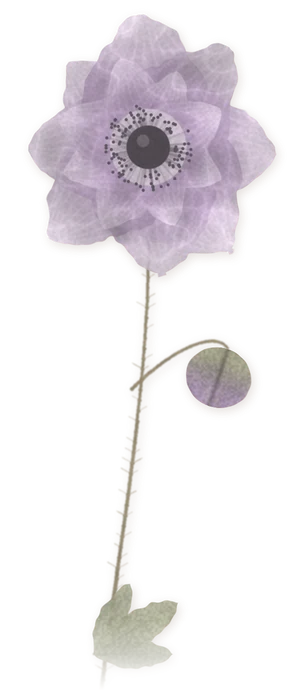
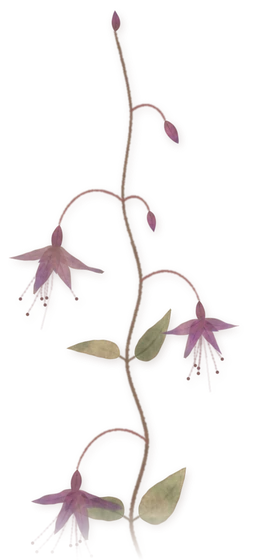
Rankings: pressed fuchsia sprig, asymmetric and dried, replacing the anemone
Claude-Session: https://claude.ai/code/session_019cHY5kFv81n3dVZ9DcXyGk

diff --git a/assets/inner.css b/assets/inner.css
@@ -161,8 +161,8 @@ header{position:absolute;color:inherit;mix-blend-mode:normal;padding:1.4rem 16px
 /* a sprig of lily of the valley beside the photo, drawn in as the page opens */
 .ranks .plates{position:sticky}
 
-.bloom{position:absolute;left:55%;top:-3.4rem;width:clamp(7rem,9.5vw,9.5rem);height:auto;transform:rotate(5deg);pointer-events:none;filter:drop-shadow(0 1px 1.5px rgba(70,50,30,.15))}
+.bloom{position:absolute;left:60%;top:-3.4rem;width:clamp(9rem,13vw,13rem);height:auto;transform:rotate(5deg);pointer-events:none;filter:drop-shadow(0 1px 1.5px rgba(70,50,30,.15))}
 .js .bloom{opacity:0;transform:rotate(5deg) translateY(.5rem)}
 .js .bloom.in{opacity:.92;transform:rotate(5deg);transition:opacity 1.2s var(--e),transform 1.4s var(--e)}
 @media (prefers-reduced-motion:reduce){.js .bloom{opacity:.92;transform:rotate(5deg)}}
-@media (max-width:760px){.ranks .plates{max-width:11rem;grid-template-columns:1fr}.bloom{left:78%;top:-2.6rem;width:6.4rem}}
+@media (max-width:760px){.ranks .plates{max-width:11rem;grid-template-columns:1fr}.bloom{left:72%;top:-3rem;width:8.4rem}}

diff --git a/ranking.html b/ranking.html
@@ -23,7 +23,7 @@
   <p class="stand fd">In descending order.</p>
   </section>
   <section class="ranks">
-    <div class="plates" aria-hidden="true"><figure class="rv"><img src="assets/img/n/kid-3.jpg" alt="" loading="lazy"></figure><img class="bloom" src="assets/img/n/pressed.webp?v=3" alt="" width="295" height="690" loading="lazy"></div>
+    <div class="plates" aria-hidden="true"><figure class="rv"><img src="assets/img/n/kid-3.jpg" alt="" loading="lazy"></figure><img class="bloom" src="assets/img/n/pressed.webp?v=5" alt="" width="280" height="560" loading="lazy"></div>
     <ol class="rank-list stag">
       <li style="--i:1"><span class="pos type">01</span><span class="age">0 years old</span></li>
       <li style="--i:2"><span class="pos type">02</span><span class="age">4 years old</span></li>
